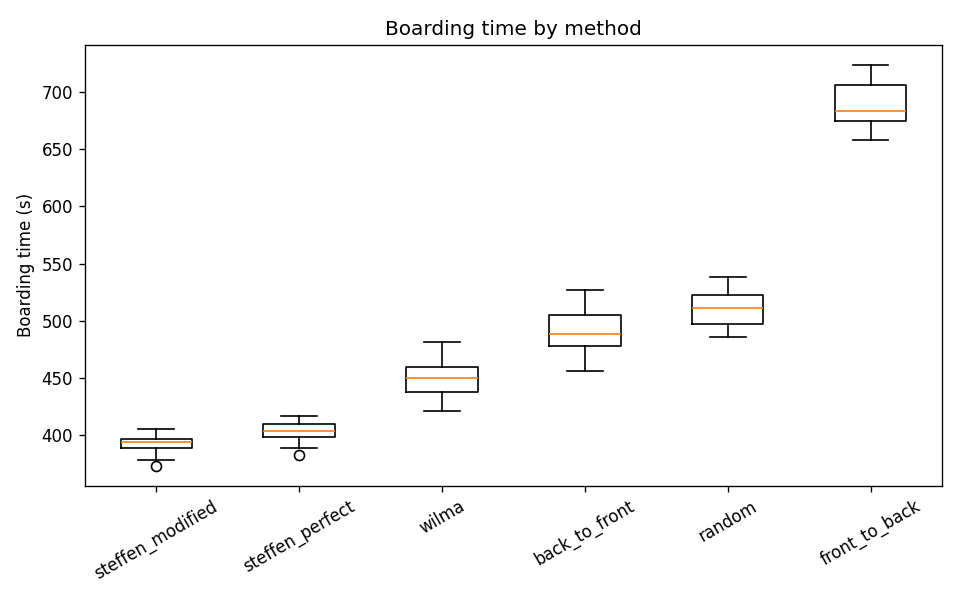
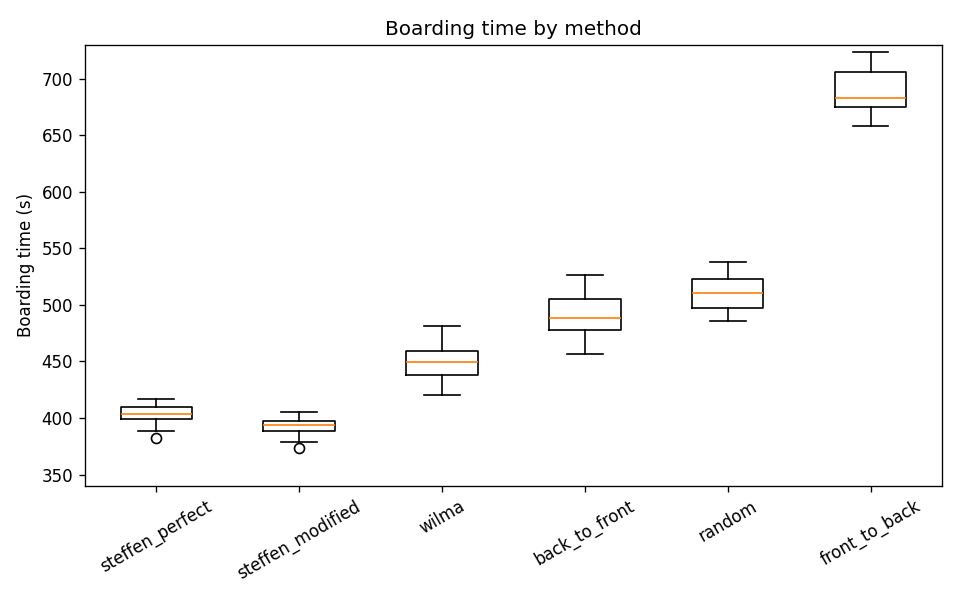
viz: fixed method order + shared y-limits across all study plots
CANONICAL_ORDER + COMPARISON_YLIM so basic/mix box plots and the group erosion
curve are directly comparable by eye; regenerated the three committed plots.

diff --git a/src/boarding/analysis.py b/src/boarding/analysis.py
@@ -2,6 +2,18 @@ from pathlib import Path
 
 import pandas as pd
 
+# Fixed method order (homogeneous fastest-first) and shared y-limits so every study's
+# plot uses the same x-axis order and the same y-scale — directly comparable by eye.
+CANONICAL_ORDER = (
+    "steffen_perfect",
+    "steffen_modified",
+    "wilma",
+    "back_to_front",
+    "random",
+    "front_to_back",
+)
+COMPARISON_YLIM = (340.0, 730.0)
+
 
 def ranking_table(df: pd.DataFrame) -> pd.DataFrame:
     """Mean/std boarding time per method, fastest first."""
@@ -16,20 +28,35 @@ def ranking_table(df: pd.DataFrame) -> pd.DataFrame:
     return grouped
 
 
-def boxplot_by_method(df: pd.DataFrame, out_path: Path) -> Path:
-    """Box plot of total boarding time per method; saves a PNG."""
+def boxplot_by_method(
+    df: pd.DataFrame,
+    out_path: Path,
+    order: tuple[str, ...] | list[str] | None = None,
+    ylim: tuple[float, float] | None = None,
+) -> Path:
+    """Box plot of total boarding time per method; saves a PNG.
+
+    order: fixed method order for the x-axis (defaults to fastest-first for this df).
+    ylim: fixed y-limits. Pass CANONICAL_ORDER + COMPARISON_YLIM for cross-study plots.
+    """
     import matplotlib
 
     matplotlib.use("Agg")
     import matplotlib.pyplot as plt
 
-    order = ranking_table(df)["method"].tolist()
-    data = [df.loc[df["method"] == m, "total_time"].to_numpy() for m in order]
+    present = set(df["method"])
+    if order is None:
+        seq = ranking_table(df)["method"].tolist()
+    else:
+        seq = [m for m in order if m in present]
+    data = [df.loc[df["method"] == m, "total_time"].to_numpy() for m in seq]
     fig, ax = plt.subplots(figsize=(8, 5))
-    ax.boxplot(data, tick_labels=order, orientation="vertical")
+    ax.boxplot(data, tick_labels=seq, orientation="vertical")
     ax.set_ylabel("Boarding time (s)")
     ax.set_title("Boarding time by method")
     ax.tick_params(axis="x", rotation=30)
+    if ylim is not None:
+        ax.set_ylim(*ylim)
     fig.tight_layout()
     fig.savefig(out_path, dpi=120)
     plt.close(fig)

diff --git a/src/boarding/cli.py b/src/boarding/cli.py
@@ -2,7 +2,7 @@ import argparse
 import shutil
 from pathlib import Path
 
-from .analysis import boxplot_by_method, ranking_table
+from .analysis import CANONICAL_ORDER, COMPARISON_YLIM, boxplot_by_method, ranking_table
 from .config import BoardingConfig
 from .experiment import run_boarding, sweep
 from .methods import METHODS
@@ -53,7 +53,10 @@ def main(argv: list[str] | None = None) -> None:
     df.to_csv(args.out / f"results{suffix}.csv", index=False)
     table = ranking_table(df)
     table.to_csv(args.out / f"ranking{suffix}.csv", index=False)
-    boxplot_by_method(df, args.out / f"boarding_times{suffix}.png")
+    boxplot_by_method(
+        df, args.out / f"boarding_times{suffix}.png",
+        order=CANONICAL_ORDER, ylim=COMPARISON_YLIM,
+    )
     print(table.to_string(index=False))
     if args.trajectories is not None:
         _save_trajectories(args.methods, args.trajectories, cfg, args.out)

diff --git a/src/boarding/groupsweep.py b/src/boarding/groupsweep.py
@@ -5,6 +5,7 @@ from pathlib import Path
 
 import pandas as pd
 
+from .analysis import CANONICAL_ORDER, COMPARISON_YLIM
 from .config import BoardingConfig
 from .experiment import run_boarding
 from .methods import METHODS
@@ -42,13 +43,15 @@ def erosion_plot(df: pd.DataFrame, out_path: Path) -> Path:
     matplotlib.use("Agg")
     import matplotlib.pyplot as plt
 
-    methods = [m for m in METHODS if m in set(df["method"])]
+    present = set(df["method"])
+    methods = [m for m in CANONICAL_ORDER if m in present]
     fig, ax = plt.subplots(figsize=(9, 6))
     for method in methods:
         sub = df[df["method"] == method].groupby("group_fraction")["total_time"].mean()
         ax.plot(sub.index, sub.to_numpy(), marker="o", label=method)
     ax.set_xlabel("group fraction")
     ax.set_ylabel("mean boarding time (s)")
+    ax.set_ylim(*COMPARISON_YLIM)
     ax.set_title("Boarding time vs group fraction (window-first cohesion)")
     ax.legend()
     fig.tight_layout()